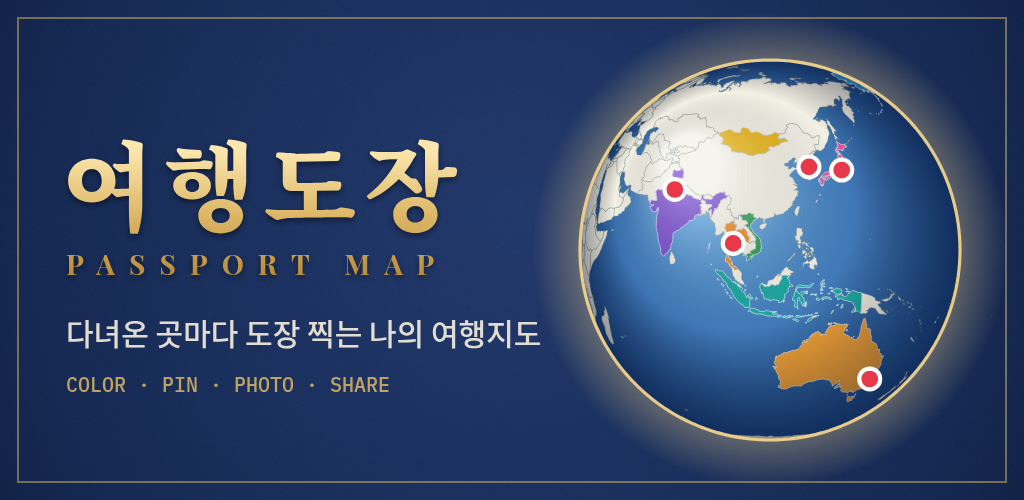
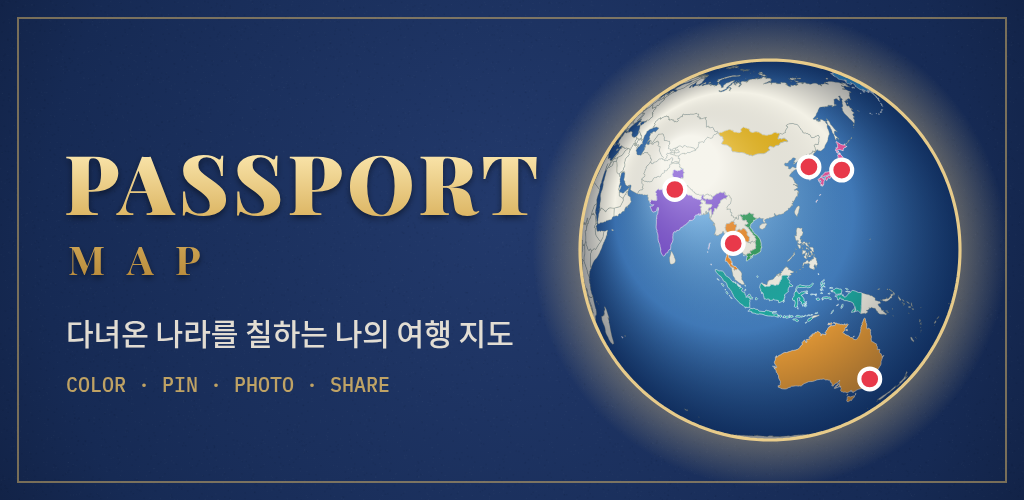
앱 이름을 다시 Passport Map 으로 (로그인 필수는 유지)
Claude-Session: https://claude.ai/code/session_011tcMSH1CXV5mGu8py8oVy6

Changed region(s): [[0.0625, 0.27, 0.5312, 0.57], [0.1562, 0.63, 0.5312, 0.72], [0.3438, 0.51, 0.4375, 0.57]]

diff --git a/public/mgh/i18n/passport-map.js b/public/mgh/i18n/passport-map.js
@@ -1,4 +1,4 @@
-/* 여행도장(Passport Map) — 영어 사전 (나라·도시 이름은 게임이 직접 영어로 표시) */
+/* Passport Map — 영어 사전 (나라·도시 이름은 게임이 직접 영어로 표시) */
 (function () {
   var COLORS = { "블루": "Blue", "하늘": "Sky", "민트": "Mint", "초록": "Green", "노랑": "Yellow", "주황": "Orange", "빨강": "Red", "분홍": "Pink", "보라": "Purple", "갈색": "Brown", "다른": "Custom" };
   MGH.dict({
@@ -8,7 +8,7 @@
       "나라·도시 검색 (예: 파리, Japan)": "Search countries & cities (e.g. Paris, 일본)",
       "나라나 도시 검색": "Search countries or cities",
       "지도를 눌러 원하는 곳에 핀을 찍어요": "Click the map to drop a pin anywhere",
-      "핀 찍기": "Drop pin", "테마": "Theme", "지도 테마": "Map theme", "유명 도시 이름 표시": "Show famous city names", "여행도장": "Passport Map", "나의 여행도장": "My Passport Map", "친구의 여행도장을 보고 있어요": "You're viewing a friend's Passport Map", "다녀온 나라와 도시에 도장을 찍고,": "Stamp the countries and cities you've visited,", "사진과 방문 날짜를 남겨 보세요.": "and keep photos and visit dates.", "로그인 확인 중…": "Checking sign-in…", "카카오톡으로 시작하기": "Continue with Kakao", "이메일로 시작하기": "Continue with email", "로그인하면 휴대폰·PC 어디서든 같은 지도를 볼 수 있어요.": "Sign in to see the same map on your phone and computer.", "로그인 필요": "Sign-in required", "달력에서 시작일과 마지막 날을 고르세요 (마지막 날은 비워도 돼요)": "Pick the first and last day (last day is optional)", "시작일도 골라 주세요": "Pick the first day too", "마지막 날이 시작일보다 빨라요. 날짜를 다시 골라 주세요": "The last day is before the first day. Please pick again", "예: 2025.03.01 ~ 2025.03.05 (마지막 날은 비워도 돼요)": "e.g. 2025.03.01 ~ 2025.03.05 (last day is optional)", "시작일을 2025.03.01처럼 입력해 주세요": "Enter the first day like 2025.03.01", "마지막 날을 2025.03.05처럼 입력해 주세요": "Enter the last day like 2025.03.05", "시작일을 먼저 입력해 주세요": "Enter the first day first", "마지막 날이 시작일보다 빨라요": "The last day is before the first day", "방문 기간": "Visit dates", "방문 시작일": "First day", "방문 마지막 날": "Last day", "날짜를 넣으면 여행 기간이 계산돼요": "Add dates to count your travel days", "핀만 찍기": "Pin only", "지도에 다녀온 도시로 표시만 해요": "Just mark it as visited", "핀 + 정보 입력": "Pin + details", "사진, 방문 기간, 메모를 함께 남겨요": "Add a photo, dates and a note", "여행": "Trip", "일": " days", "방문 국가": "Countries", "방문 도시": "Cities", "여행 기간 총합": "Total travel days", "세계 나라 중": "of the world", "개국": "", "곳": "", "계정에서 불러오는 중…": "Loading from your account…", "불러오기 실패 · 다시 시도 중": "Couldn't load · retrying", "다른 기기에서 고친 내용을 불러왔어요": "Updated with changes from another device", "내 지도 링크": "My map link", "내 지도 링크 · 공개 중": "My map link · Public", "로그인하면 내 지도를 그대로 보여주는 전용 링크를 만들 수 있어요.": "Log in to create a link that shows your map exactly as it is.", "링크를 받은 사람은 내 지도와 사진, 메모를 볼 수 있어요. 고칠 수는 없어요.": "Anyone with the link can see your map, photos and notes. They can't edit it.", "내 지도 링크 만들기": "Create my map link", "링크를 만드는 중…": "Creating link…", "링크를 최신 지도로 바꾸는 중…": "Updating the link…", "지도를 고치면 링크에도 자동으로 반영돼요.": "Changes to your map update the link automatically.", "공개 중지": "Stop sharing", "한 번 더 누르면 공개 중지": "Press again to stop sharing", "내 지도 링크를 만들었어요.": "Your map link is ready.", "내 지도 링크를 복사했어요.": "Map link copied.", "게임 링크를 복사했어요. 내 지도를 보여주려면 위에서 내 지도 링크를 만드세요.": "Game link copied. To show your map, create your map link above.", "링크를 만들지 못했어요. 잠시 후 다시 시도해 주세요.": "Couldn't create the link. Please try again shortly.", "공개를 중지했어요. 이전 링크는 더 이상 열리지 않아요.": "Sharing stopped. The old link no longer opens.", "공개를 중지하지 못했어요.": "Couldn't stop sharing.", "예시 지도는 링크로 만들 수 없어요. 내 지도를 먼저 만들어 주세요.": "The sample map can't be shared. Start your own map first.", "친구의 Passport Map을 보고 있어요": "You're viewing a friend's Passport Map", "나도 내 지도 만들기": "Make my own map", "공개가 중지됐거나 없는 지도예요": "This map isn't shared anymore", "인스타그램·카카오톡에는 이미지를 저장한 뒤 앱에서 올려 주세요. 내 지도 링크를 만들면 링크 복사·X·페이스북·앱 공유가 모두 내 지도 주소로 공유돼요.": "For Instagram or KakaoTalk, save the image and post it from the app. Once you create your map link, Copy link, X, Facebook and app sharing all use it.", "눌러서 다녀온 도시로 추가": "Click to add as visited", "다녀온 도시로 추가": "Add as visited city", "추가하면 핀이 찍히고, 사진과 메모를 남길 수 있어요.": "A pin is dropped and you can add a photo and note.", "아직 다녀오지 않은 도시예요.": "Not visited yet.", "목록": "List", "공유": "Share",
+      "핀 찍기": "Drop pin", "테마": "Theme", "지도 테마": "Map theme", "유명 도시 이름 표시": "Show famous city names", "친구의 Passport Map을 보고 있어요": "You're viewing a friend's Passport Map", "다녀온 나라와 도시를 색칠하고,": "Color the countries and cities you've visited,", "사진과 방문 날짜를 남겨 보세요.": "and keep photos and visit dates.", "로그인 확인 중…": "Checking sign-in…", "카카오톡으로 시작하기": "Continue with Kakao", "이메일로 시작하기": "Continue with email", "로그인하면 휴대폰·PC 어디서든 같은 지도를 볼 수 있어요.": "Sign in to see the same map on your phone and computer.", "로그인 필요": "Sign-in required", "달력에서 시작일과 마지막 날을 고르세요 (마지막 날은 비워도 돼요)": "Pick the first and last day (last day is optional)", "시작일도 골라 주세요": "Pick the first day too", "마지막 날이 시작일보다 빨라요. 날짜를 다시 골라 주세요": "The last day is before the first day. Please pick again", "예: 2025.03.01 ~ 2025.03.05 (마지막 날은 비워도 돼요)": "e.g. 2025.03.01 ~ 2025.03.05 (last day is optional)", "시작일을 2025.03.01처럼 입력해 주세요": "Enter the first day like 2025.03.01", "마지막 날을 2025.03.05처럼 입력해 주세요": "Enter the last day like 2025.03.05", "시작일을 먼저 입력해 주세요": "Enter the first day first", "마지막 날이 시작일보다 빨라요": "The last day is before the first day", "방문 기간": "Visit dates", "방문 시작일": "First day", "방문 마지막 날": "Last day", "날짜를 넣으면 여행 기간이 계산돼요": "Add dates to count your travel days", "핀만 찍기": "Pin only", "지도에 다녀온 도시로 표시만 해요": "Just mark it as visited", "핀 + 정보 입력": "Pin + details", "사진, 방문 기간, 메모를 함께 남겨요": "Add a photo, dates and a note", "여행": "Trip", "일": " days", "방문 국가": "Countries", "방문 도시": "Cities", "여행 기간 총합": "Total travel days", "세계 나라 중": "of the world", "개국": "", "곳": "", "계정에서 불러오는 중…": "Loading from your account…", "불러오기 실패 · 다시 시도 중": "Couldn't load · retrying", "다른 기기에서 고친 내용을 불러왔어요": "Updated with changes from another device", "내 지도 링크": "My map link", "내 지도 링크 · 공개 중": "My map link · Public", "로그인하면 내 지도를 그대로 보여주는 전용 링크를 만들 수 있어요.": "Log in to create a link that shows your map exactly as it is.", "링크를 받은 사람은 내 지도와 사진, 메모를 볼 수 있어요. 고칠 수는 없어요.": "Anyone with the link can see your map, photos and notes. They can't edit it.", "내 지도 링크 만들기": "Create my map link", "링크를 만드는 중…": "Creating link…", "링크를 최신 지도로 바꾸는 중…": "Updating the link…", "지도를 고치면 링크에도 자동으로 반영돼요.": "Changes to your map update the link automatically.", "공개 중지": "Stop sharing", "한 번 더 누르면 공개 중지": "Press again to stop sharing", "내 지도 링크를 만들었어요.": "Your map link is ready.", "내 지도 링크를 복사했어요.": "Map link copied.", "게임 링크를 복사했어요. 내 지도를 보여주려면 위에서 내 지도 링크를 만드세요.": "Game link copied. To show your map, create your map link above.", "링크를 만들지 못했어요. 잠시 후 다시 시도해 주세요.": "Couldn't create the link. Please try again shortly.", "공개를 중지했어요. 이전 링크는 더 이상 열리지 않아요.": "Sharing stopped. The old link no longer opens.", "공개를 중지하지 못했어요.": "Couldn't stop sharing.", "예시 지도는 링크로 만들 수 없어요. 내 지도를 먼저 만들어 주세요.": "The sample map can't be shared. Start your own map first.", "친구의 Passport Map을 보고 있어요": "You're viewing a friend's Passport Map", "나도 내 지도 만들기": "Make my own map", "공개가 중지됐거나 없는 지도예요": "This map isn't shared anymore", "인스타그램·카카오톡에는 이미지를 저장한 뒤 앱에서 올려 주세요. 내 지도 링크를 만들면 링크 복사·X·페이스북·앱 공유가 모두 내 지도 주소로 공유돼요.": "For Instagram or KakaoTalk, save the image and post it from the app. Once you create your map link, Copy link, X, Facebook and app sharing all use it.", "눌러서 다녀온 도시로 추가": "Click to add as visited", "다녀온 도시로 추가": "Add as visited city", "추가하면 핀이 찍히고, 사진과 메모를 남길 수 있어요.": "A pin is dropped and you can add a photo and note.", "아직 다녀오지 않은 도시예요.": "Not visited yet.", "목록": "List", "공유": "Share",
       "불러오는 중": "Loading", "불러오는 중…": "Loading…", "확인 중": "Checking",
       "저장됨": "Saved", "저장 대기": "Unsaved", "저장 중…": "Saving…", "저장 안 됨": "Not saved",
       "이 브라우저에 저장됨": "Saved in this browser", "계정에 저장됨": "Saved to account",
@@ -61,7 +61,7 @@
       "이미지를 복사했어요. SNS 글쓰기 창에 붙여넣으세요.": "Image copied. Paste it into your post.",
       "이 브라우저에서는 이미지 복사가 막혀 있어요. ‘이미지 저장’을 이용해 주세요.": "This browser blocks copying images. Try “Save image”.",
       "링크를 복사했어요.": "Link copied.",
-      "인스타그램·카카오톡에는 이미지를 저장한 뒤 앱에서 올려 주세요. 링크를 받은 친구는 바로 자기 여행도장을 만들 수 있어요.": "For Instagram or KakaoTalk, save the image and post it from the app. Friends who open the link can start their own Passport Map.",
+      "인스타그램·카카오톡에는 이미지를 저장한 뒤 앱에서 올려 주세요. 링크를 받은 친구는 바로 자기 Passport Map을 만들 수 있어요.": "For Instagram or KakaoTalk, save the image and post it from the app. Friends who open the link can start their own Passport Map.",
       "개 나라를 다녀왔어요": "countries visited", "개 나라": "countries", "곳의 도시": "cities", "세계 나라 중": "of the world",
     },
     patterns: [

diff --git a/public/games/passport-map/index.html b/public/games/passport-map/index.html
@@ -5,8 +5,8 @@
 <link rel="canonical" href="/play/passport-map">
 <script src="/mgh/bridge.js"></script><script src="/mgh/i18n/passport-map.js"></script>
 <meta name="viewport" content="width=device-width, initial-scale=1.0, viewport-fit=cover">
-<title>여행도장</title>
-<meta name="description" content="여행도장 — 다녀온 나라와 도시를 세계지도에 색칠하고 사진을 남기는 여행 지도">
+<title>Passport Map</title>
+<meta name="description" content="Passport Map — 다녀온 나라와 도시를 세계지도에 색칠하고 사진을 남기는 여행 지도">
 <link rel="preconnect" href="https://fonts.googleapis.com">
 <link rel="preconnect" href="https://fonts.gstatic.com" crossorigin>
 <link rel="stylesheet" href="https://fonts.googleapis.com/css2?family=Hahmlet:wght@600;700&family=IBM+Plex+Mono:wght@500&family=IBM+Plex+Sans+KR:wght@400;500;600&display=swap">
@@ -287,7 +287,7 @@ input,button,select,textarea{box-sizing:border-box}
 
 <div class="app">
   <header class="bar">
-    <div class="brand"><h1>여행도장</h1>
+    <div class="brand"><h1>Passport Map</h1>
       <div class="stats" id="stats"></div></div>
     <div class="tools">
       <div class="search">
@@ -331,7 +331,7 @@ input,button,select,textarea{box-sizing:border-box}
       <div class="row"><button class="sbtn" id="clearSample">예시 지우고 내 지도 시작</button></div>
     </div>
     </div>
-    <div class="viewbar" id="viewBar" hidden><span id="viewTxt">친구의 여행도장을 보고 있어요</span><a href="/play/passport-map" target="_top">나도 내 지도 만들기</a></div>
+    <div class="viewbar" id="viewBar" hidden><span id="viewTxt">친구의 Passport Map을 보고 있어요</span><a href="/play/passport-map" target="_top">나도 내 지도 만들기</a></div>
     <div class="deco deco-passport">PASSPORT MAP</div>
     <svg class="deco deco-compass" viewBox="-40 -44 80 84" aria-hidden="true"><circle r="26" fill="none" stroke="currentColor" stroke-width="1"/><g fill="currentColor"><path d="M0-34 5 0-5 0z"/><path d="M0 34 5 0-5 0z" opacity=".55"/><path d="M34 0 0 5 0-5z" opacity=".55"/><path d="M-34 0 0 5 0-5z" opacity=".55"/></g><text y="-37" text-anchor="middle" font-size="10" font-family="Georgia,serif" fill="currentColor">N</text></svg>
     <div class="choice" id="choice" hidden></div>
@@ -346,7 +346,7 @@ input,button,select,textarea{box-sizing:border-box}
     <div class="pv"><canvas id="shareCv" width="1080" height="1080"></canvas></div>
     <div class="side">
       <div style="display:flex;align-items:center"><h2 id="shTitle">지도 공유하기</h2><button class="x" id="shClose" aria-label="닫기">×</button></div>
-      <div><div class="lbl">지도 제목</div><input class="field" id="shName" maxlength="24" placeholder="나의 여행도장"></div>
+      <div><div class="lbl">지도 제목</div><input class="field" id="shName" maxlength="24" placeholder="My Passport Map"></div>
       <div><div class="lbl">이미지 비율</div><div class="seg" id="shFmt">
         <button data-f="sq" aria-pressed="true">정사각<small>1080×1080</small></button><button data-f="pt" aria-pressed="false">세로<small>1080×1350</small></button><button data-f="ls" aria-pressed="false">가로<small>1200×630</small></button></div></div>
       <label class="chk"><input type="checkbox" id="shPhotos" checked> 올린 사진도 함께 넣기</label>
@@ -368,8 +368,8 @@ input,button,select,textarea{box-sizing:border-box}
 <div class="gate" id="gate" hidden role="dialog" aria-modal="true" aria-labelledby="gateTitle">
   <div class="gate-card">
     <svg class="gate-stamp" viewBox="0 0 100 100" aria-hidden="true"><circle cx="50" cy="50" r="44" fill="none" stroke="currentColor" stroke-width="5"/><circle cx="50" cy="50" r="35" fill="none" stroke="currentColor" stroke-width="2"/><path d="M50 26c-8 0-14 6-14 14 0 10 14 26 14 26s14-16 14-26c0-8-6-14-14-14zm0 19a5 5 0 1 1 0-10 5 5 0 0 1 0 10z" fill="currentColor"/><text x="50" y="80" text-anchor="middle" font-size="9" font-weight="700" fill="currentColor" letter-spacing="2">TRAVEL</text></svg>
-    <h2 id="gateTitle">여행도장</h2>
-    <p>다녀온 나라와 도시에 도장을 찍고,<br>사진과 방문 날짜를 남겨 보세요.</p>
+    <h2 id="gateTitle">Passport Map</h2>
+    <p>다녀온 나라와 도시를 색칠하고,<br>사진과 방문 날짜를 남겨 보세요.</p>
     <div id="gateBody"><div class="gate-wait">로그인 확인 중…</div></div>
   </div>
 </div>
@@ -1138,7 +1138,7 @@ const P2={};const p2=id=>P2[id]||(P2[id]=new Path2D(C[id].d));
 const loadImg=src=>new Promise(r=>{const i=new Image();if(/^https?:/.test(src))i.crossOrigin='anonymous';i.onload=()=>r(i);i.onerror=()=>r(null);i.src=src});
 function rrect(x,X,Y,w,h,r){x.beginPath();if(x.roundRect)x.roundRect(X,Y,w,h,r);else x.rect(X,Y,w,h)}
 let shSeq=0,shBlob=null,DL=null;
-function shTitleText(){return (S.share&&S.share.name)||(EN?'My Passport Map':'나의 여행도장')}
+function shTitleText(){return (S.share&&S.share.name)||'My Passport Map'}
 function stripePattern(x){const c=document.createElement('canvas');c.width=c.height=48;const g=c.getContext('2d');g.fillStyle='#FFFFFF';g.fillRect(0,0,48,48);
   g.lineWidth=11;[['#E0393E',0],['#2D5BD0',24]].forEach(([col,o])=>{g.strokeStyle=col;for(let k=-2;k<3;k++){g.beginPath();g.moveTo(o+k*48-10,58);g.lineTo(o+k*48+58,-10);g.stroke()}});return x.createPattern(c,'repeat')}
 async function renderCard(cv,F,P,seq){
@@ -1157,7 +1157,7 @@ async function renderCard(cv,F,P,seq){
   const pad=F==='ls'?48:60;
   // header
   x.fillStyle=MUTED;x.font=`500 ${F==='ls'?17:20}px ${MONO}`;x.textBaseline='alphabetic';
-  x.fillText((EN?'PASSPORT MAP':'여행도장 · PASSPORT MAP')+' · '+new Date().getFullYear(),pad,pad+(F==='ls'?14:18));
+  x.fillText('PASSPORT MAP'+' · '+new Date().getFullYear(),pad,pad+(F==='ls'?14:18));
   x.fillStyle=INK;x.font=`700 ${F==='ls'?42:56}px ${DISP}`;x.fillText(shTitleText(),pad,pad+(F==='ls'?66:86));
   // map box
   let mb;
@@ -1181,13 +1181,13 @@ async function renderCard(cv,F,P,seq){
         x.drawImage(it.im,X+(cw2-it.im.width*sc)/2,Y+(ch-it.im.height*sc)/2,it.im.width*sc,it.im.height*sc);
         const gr=x.createLinearGradient(0,Y+ch-70,0,Y+ch);gr.addColorStop(0,'rgba(0,0,0,0)');gr.addColorStop(1,'rgba(0,0,0,.6)');x.fillStyle=gr;x.fillRect(X,Y+ch-70,cw2,70);
         x.fillStyle=it.color;x.beginPath();x.arc(X+20,Y+ch-22,6,0,7);x.fill();x.fillStyle='#FFFFFF';x.font=`600 20px ${BODY}`;x.fillText(it.name,X+34,Y+ch-15,cw2-46);x.restore()})}}
-  x.fillStyle=MUTED;x.font=`500 15px ${MONO}`;x.textAlign='right';x.fillText(EN?'Passport Map':'여행도장',W-pad,H-pad+(F==='ls'?24:14));x.textAlign='left';
+  x.fillStyle=MUTED;x.font=`500 15px ${MONO}`;x.textAlign='right';x.fillText('Passport Map',W-pad,H-pad+(F==='ls'?24:14));x.textAlign='left';
   return true}
 async function drawShare(){const seq=++shSeq;const cv=$('#shareCv');if(!await renderCard(cv,SH.f,SH.photos,seq))return;
   shBlob=null;cv.toBlob(b=>{if(seq===shSeq)shBlob=b},'image/png');updateShareLinks()}
 function shareURL(){return (PUB&&PUB.slug)?location.origin+'/m/'+PUB.slug:ARTIFACT_URL}
 function updateShareLinks(){const n=Object.keys(S.countries).length,m=S.cities.length;const u=shareURL();
-  const txt=EN?`${shTitleText()} — I've been to ${n} countries and ${m} cities #PassportMap`:`${shTitleText()} — 나라 ${n}곳, 도시 ${m}곳에 도장을 찍었어요 #여행도장`;
+  const txt=EN?`${shTitleText()} — I've been to ${n} countries and ${m} cities #PassportMap`:`${shTitleText()} — 나라 ${n}곳, 도시 ${m}곳을 다녀왔어요 #PassportMap`;
   $('#shX').href='https://twitter.com/intent/tweet?text='+encodeURIComponent(txt)+'&url='+encodeURIComponent(u);
   $('#shFb').href='https://www.facebook.com/sharer/sharer.php?u='+encodeURIComponent(u)}
 const shMsg=t=>{$('#shMsg').textContent=t};
@@ -1200,9 +1200,9 @@ $('#shFmt').onclick=e=>{const b=e.target.closest('button');if(!b)return;SH.f=b.d
 $('#shPhotos').onchange=e=>{SH.photos=e.target.checked;drawShare()};
 const getBlob=()=>shBlob?Promise.resolve(shBlob):new Promise(r=>$('#shareCv').toBlob(r,'image/png'));
 if(EMB){$('#shNote').textContent='인스타그램·카카오톡에는 이미지를 저장한 뒤 앱에서 올려 주세요. 내 지도 링크를 만들면 링크 복사·X·페이스북·앱 공유가 모두 내 지도 주소로 공유돼요.'}
-const shFile=b=>new File([b],(EN?'passport-map':'여행도장')+'.png',{type:'image/png'});
+const shFile=b=>new File([b],'passport-map.png',{type:'image/png'});
 try{if(navigator.canShare&&navigator.canShare({files:[new File([new Blob(['x'],{type:'image/png'})],'t.png',{type:'image/png'})]}))$('#shNative').hidden=false}catch(e){}
-$('#shNative').onclick=async()=>{try{const b=await getBlob();await navigator.share({files:[shFile(b)],title:shTitleText(),text:EN?'My Passport Map':'나의 여행도장',url:EMB?shareURL():undefined})}catch(e){if(e&&e.name!=='AbortError')shMsg('공유하지 못했어요. ‘이미지 저장’을 이용해 주세요.')}};
+$('#shNative').onclick=async()=>{try{const b=await getBlob();await navigator.share({files:[shFile(b)],title:shTitleText(),text:'My Passport Map',url:EMB?shareURL():undefined})}catch(e){if(e&&e.name!=='AbortError')shMsg('공유하지 못했어요. ‘이미지 저장’을 이용해 주세요.')}};
 $('#shSave').onclick=async()=>{if(!DL){try{const b=await getBlob();const u=URL.createObjectURL(b);const a=document.createElement('a');a.href=u;a.download=shFile(b).name;document.body.appendChild(a);a.click();a.remove();setTimeout(()=>URL.revokeObjectURL(u),4000);shMsg('이미지를 저장했어요.')}catch(e){shMsg('저장하지 못했어요. ‘이미지 복사’를 이용해 주세요.')}return}
   try{const b=await getBlob();await DL.save({filename:`passport-map-${({sq:'정사각',pt:'세로',ls:'가로'})[SH.f]}.png`,data:b});shMsg('이미지를 저장했어요.')}
   catch(err){const c=err&&err.code;shMsg(c==='declined'?'저장을 취소했어요.':c==='rate_limited'?'저장 창이 이미 열려 있어요.':'저장하지 못했어요. ‘이미지 복사’를 이용해 주세요.')}};
@@ -1254,7 +1254,7 @@ async function bootPortal(){
 async function bootView(){mode='readonly';$('#pinBtn').hidden=true;$('#shareBtn').hidden=true;$('#sample').hidden=true;$('#viewBar').hidden=false;
   setSave('idle','불러오는 중');
   try{const r=await fetch('/api/share/'+encodeURIComponent(VIEW),{cache:'no-store'});if(!r.ok)throw 0;const j=await r.json();S=j.data;S.cities=S.cities||[];
-    const nm=S.share&&S.share.name;$('#viewTxt').textContent=nm?nm:(EN?'A friend\'s Passport Map':'친구의 여행도장을 보고 있어요');setSave('idle','보기 전용')}
+    const nm=S.share&&S.share.name;$('#viewTxt').textContent=nm?nm:(EN?'A friend\'s Passport Map':'친구의 Passport Map을 보고 있어요');setSave('idle','보기 전용')}
   catch(e){S={v:1,countries:{},cities:[]};$('#viewTxt').textContent=EN?'This map link is no longer available':'공개가 중지됐거나 없는 지도예요';setSave('idle','')}
   renderMap();resetView()}
 async function boot(){

diff --git a/src/app/privacy/page.tsx b/src/app/privacy/page.tsx
@@ -4,7 +4,7 @@ import { serverLang } from "@/lib/serverLang";
 
 export const metadata: Metadata = {
   title: "개인정보처리방침 · Privacy Policy",
-  description: "미니게임천국과 여행도장(Passport Map) 앱의 개인정보처리방침",
+  description: "미니게임천국과 Passport Map 앱의 개인정보처리방침",
   alternates: { canonical: "/privacy" },
 };
 
@@ -21,8 +21,8 @@ export default async function PrivacyPage() {
       <h1 className="page-title">{en ? "Privacy Policy" : "개인정보처리방침"}</h1>
       <p className="page-sub">
         {en
-          ? `Applies to the Mini Game Heaven website and the 여행도장 (Passport Map) Android app. Last updated ${UPDATED}.`
-          : `미니게임천국 웹사이트와 여행도장(Passport Map) 안드로이드 앱에 적용됩니다. 최종 수정일 ${UPDATED}.`}
+          ? `Applies to the Mini Game Heaven website and the Passport Map Android app. Last updated ${UPDATED}.`
+          : `미니게임천국 웹사이트와 Passport Map 안드로이드 앱에 적용됩니다. 최종 수정일 ${UPDATED}.`}
       </p>
       {en ? (
         <>
@@ -59,11 +59,11 @@ export default async function PrivacyPage() {
           <h2>1. 수집하는 정보</h2>
           <ul>
             <li><b>계정</b>: 이메일 가입 시 이메일 주소, 카카오 로그인 시 카카오 계정 식별자, 직접 정한 닉네임</li>
-            <li><b>여행도장 데이터</b>: 표시한 나라·도시, 핀 색, 방문 기간, 메모, 지도 테마, 올린 사진</li>
+            <li><b>Passport Map 데이터</b>: 표시한 나라·도시, 핀 색, 방문 기간, 메모, 지도 테마, 올린 사진</li>
             <li><b>게임 기록</b>: 점수·랭킹, 온라인 방 참여 기록</li>
             <li><b>이용 기록</b>: 구글 애널리틱스가 수집하는 방문 페이지·기기·브라우저 정보, 웹사이트의 구글 애드센스 쿠키</li>
           </ul>
-          <p>여행도장은 지도를 계정에 보관하기 위해 카카오 또는 이메일 로그인 후 이용할 수 있습니다.</p>
+          <p>Passport Map은 지도를 계정에 보관하기 위해 카카오 또는 이메일 로그인 후 이용할 수 있습니다.</p>
           <h2>2. 이용 목적</h2>
           <ul>
             <li>지도·사진·기록을 계정에 보관하고 로그인한 모든 기기에서 보여 주기 위해</li>
@@ -76,7 +76,7 @@ export default async function PrivacyPage() {
           <h2>4. 처리 위탁 (보관 장소)</h2>
           <p>Supabase(데이터베이스·로그인·파일 저장)와 Vercel(웹사이트 호스팅)에 보관·처리를 맡기며, 이들은 서비스 운영 목적으로만 데이터를 처리합니다.</p>
           <h2>5. 보유 기간</h2>
-          <p>이용자가 직접 지우거나 회원 탈퇴할 때까지 보관합니다. 탈퇴하면 프로필, 기록, 여행도장 데이터, 사진, 공개 링크가 모두 삭제됩니다.</p>
+          <p>이용자가 직접 지우거나 회원 탈퇴할 때까지 보관합니다. 탈퇴하면 프로필, 기록, Passport Map 데이터, 사진, 공개 링크가 모두 삭제됩니다.</p>
           <h2>6. 계정 삭제(회원 탈퇴)</h2>
           <p><Link href="/account/delete">계정 삭제</Link> 페이지에서 직접 삭제할 수 있습니다(로그인 필요). 또는 {contact}로 요청해 주세요.</p>
           <h2>7. 아동</h2>

diff --git a/src/lib/seo.ts b/src/lib/seo.ts
@@ -295,11 +295,11 @@ export const GAME_SEO: SeoMap = {
   },
   "passport-map": {
     ko: {
-      title: "여행도장 - 다녀온 나라 색칠하는 여행지도 · 여행 기록 앱",
-      h1: "여행도장 — 다녀온 나라와 도시에 도장 찍는 여행 기록",
+      title: "Passport Map - 다녀온 나라 색칠하기 · 세계 여행 지도 만들기",
+      h1: "Passport Map — 다녀온 나라와 도시를 색칠하는 여행 지도",
       description: "세계지도에서 다녀온 나라를 원하는 색으로 칠하고, 도시에 핀을 꽂고, 장소마다 여행 사진과 방문 날짜를 남기는 무료 여행 기록. 카카오·이메일 로그인으로 어디서든 이어 보고 인스타·X용 공유 이미지도 만들 수 있어요.",
-      keywords: ["여행도장", "여행 지도", "다녀온 나라", "세계지도 색칠", "여행 기록", "방문 국가", "세계 여행 지도", "여행 사진 지도", "visited countries"],
-      about: ["여행도장은 세계지도 위에 다녀온 나라를 색칠하고, 도시마다 핀을 찍어 나만의 여행 지도를 만드는 서비스입니다. 나라와 도시마다 사진 1장과 한 줄 메모를 남기면 지도에 마우스를 올렸을 때 사진이 떠요.", "다녀온 나라 수·도시 수·세계 몇 %를 다녀왔는지 한눈에 보이고, 정사각·세로·가로 비율의 공유 이미지로 SNS에 올릴 수 있어요. 카카오톡이나 이메일로 로그인하면 어느 기기에서든 같은 지도를 이어서 볼 수 있습니다."],
+      keywords: ["Passport Map", "여행 지도", "다녀온 나라", "세계지도 색칠", "여행 기록", "방문 국가", "세계 여행 지도", "여행 사진 지도", "visited countries"],
+      about: ["Passport Map은 세계지도 위에 다녀온 나라를 색칠하고, 도시마다 핀을 찍어 나만의 여행 지도를 만드는 서비스입니다. 나라와 도시마다 사진 1장과 한 줄 메모를 남기면 지도에 마우스를 올렸을 때 사진이 떠요.", "다녀온 나라 수·도시 수·세계 몇 %를 다녀왔는지 한눈에 보이고, 정사각·세로·가로 비율의 공유 이미지로 SNS에 올릴 수 있어요. 카카오톡이나 이메일로 로그인하면 어느 기기에서든 같은 지도를 이어서 볼 수 있습니다."],
       howTo: ["지도에서 나라를 누르고 팔레트에서 색을 골라 칠합니다.", "추천 도시를 누르거나 [핀 찍기]로 다녀온 곳을 표시합니다.", "사진 1장과 메모를 올리고 [공유]로 이미지를 저장하세요."],
       tags: ["여행", "세계지도", "여행 기록", "무료"],
     },

diff --git a/src/app/m/[slug]/page.tsx b/src/app/m/[slug]/page.tsx
@@ -11,14 +11,14 @@ const load = cache(async (slug: string) => {
 
 export async function generateMetadata({ params }: { params: Promise<{ slug: string }> }): Promise<Metadata> {
   const r = await load((await params).slug);
-  if (!r) return { title: "여행도장" };
+  if (!r) return { title: "Passport Map" };
   const { lang } = await serverLang();
   const s = passportSummary(r.data);
-  const title = s.name ? `${s.name} · ${lang === "en" ? "Passport Map" : "여행도장"}` : lang === "en" ? "My Passport Map" : "나의 여행도장";
+  const title = s.name ? `${s.name} · Passport Map` : lang === "en" ? "My Passport Map" : "나의 Passport Map";
   const description =
     lang === "en"
       ? `${s.countries} countries and ${s.cities} cities visited. Make your own travel map on Passport Map!`
-      : `나라 ${s.countries}곳, 도시 ${s.cities}곳에 여행도장을 찍었어요. 나도 내 여행 지도를 만들어 보세요!`;
+      : `나라 ${s.countries}곳, 도시 ${s.cities}곳을 다녀왔어요. 나도 내 여행 지도를 만들어 보세요!`;
   const images = s.og ? [{ url: s.og, width: 1200, height: 630 }] : undefined;
   return {
     title,
@@ -39,7 +39,7 @@ export default async function SharedPassport({ params }: { params: Promise<{ slu
     <div style={{ height: "calc(100dvh - 52px)", display: "flex" }}>
       <iframe
         src={`/games/passport-map/index.html?view=${cleanShareSlug(r.slug)}&lang=${lang}`}
-        title={s.name ?? (lang === "en" ? "Passport Map" : "여행도장")}
+        title={s.name ?? "Passport Map"}
         allow="clipboard-write; web-share"
         style={{ flex: 1, width: "100%", border: 0, display: "block" }}
       />

diff --git a/src/lib/games.ts b/src/lib/games.ts
@@ -184,13 +184,13 @@ const CATALOG: Game[] = [
   {
     id: "passport-map",
     kind: "app",
-    title: { ko: "여행도장", en: "Passport Map" },
+    title: { ko: "Passport Map", en: "Passport Map" },
     desc: {
-      ko: "다녀온 나라와 도시에 도장을 찍듯 세계지도에 색칠하고, 장소마다 사진과 방문 날짜를 남기는 여행 기록. 카카오·이메일 로그인으로 어디서든 이어 보고 SNS 공유 이미지도 만들어요",
+      ko: "다녀온 나라와 도시를 세계지도에 원하는 색으로 칠하고, 장소마다 사진과 방문 날짜를 남기는 여행 기록. 카카오·이메일 로그인으로 어디서든 이어 보고 SNS 공유 이미지도 만들어요",
       en: "Color the countries and cities you've visited on a world map and pin one photo to each place. Log in to keep it in your account and make a share image for social media",
     },
     genre: "casual",
-    thumb: "/thumbs/passport-map.jpg?v=3",
+    thumb: "/thumbs/passport-map.jpg?v=4",
     src: "/games/passport-map/index.html",
     saves: true,
   },

diff --git a/src/app/passport-map/page.tsx b/src/app/passport-map/page.tsx
@@ -3,11 +3,11 @@ import { GamePlayer } from "@/components/GamePlayer";
 
 // 구글 플레이 앱(TWA)이 여는 시작 화면 — 포털 머리글·설명 없이 Passport Map 만 전체 화면
 export const metadata: Metadata = {
-  title: { absolute: "여행도장" },
+  title: { absolute: "Passport Map" },
   description: "다녀온 나라와 도시를 세계지도에 칠하고 사진을 남기는 여행 지도",
   manifest: "/passport-map.webmanifest",
   robots: { index: false, follow: false },
-  appleWebApp: { capable: true, title: "여행도장", statusBarStyle: "black-translucent" },
+  appleWebApp: { capable: true, title: "Passport Map", statusBarStyle: "black-translucent" },
   icons: { apple: "/icons/pm-192.png" },
 };
 

diff --git a/src/app/account/delete/page.tsx b/src/app/account/delete/page.tsx
@@ -33,7 +33,7 @@ export default function DeleteAccountPage() {
       <p className="page-sub">
         {en
           ? "Deleting your account permanently removes your profile, game records, Passport Map data and photos, and any public map links. This cannot be undone."
-          : "계정을 삭제하면 프로필, 게임 기록, 여행도장 지도와 사진, 공개 지도 링크가 모두 영구히 지워지고 되돌릴 수 없어요."}
+          : "계정을 삭제하면 프로필, 게임 기록, Passport Map 지도와 사진, 공개 지도 링크가 모두 영구히 지워지고 되돌릴 수 없어요."}
       </p>
       <div className="panel">
         {state === "done" ? (

diff --git a/docs/play-store/README.md b/docs/play-store/README.md
@@ -1,4 +1,4 @@
-# 여행도장 (Passport Map) — 구글 플레이 등록 가이드
+# Passport Map — 구글 플레이 등록 가이드
 
 웹사이트(`/passport-map`)를 **TWA(Trusted Web Activity)** 로 감싼 안드로이드 앱입니다.
 앱은 크롬 엔진으로 웹 화면을 전체 화면으로 띄우므로, 웹을 고치면 앱도 바로 바뀝니다 (새 버전 업로드 불필요).
@@ -21,7 +21,7 @@
 1. https://www.pwabuilder.com 에 `https://minigame-on.vercel.app/passport-map` 입력 → Start
 2. **Package For Stores → Android → Google Play → Options**
    - Package ID: 예) `kr.minigame.passportmap` (**한 번 정하면 못 바꿈**)
-   - App name: `여행도장`, Launcher name: `여행도장`
+   - App name: `Passport Map`, Launcher name: `Passport Map`
    - Signing key: **Create new** (이름·비밀번호 입력)
 3. Download → zip 안의 파일
    - `*.aab` — 플레이 콘솔에 올릴 파일
@@ -38,7 +38,7 @@
    - 이걸 빠뜨리면 플레이에서 받은 앱 상단에 주소창이 보입니다
 
 ## 4. 플레이 콘솔 등록 (조직 계정 → 테스터 조건 없음)
-1. **앱 만들기**: 이름 `여행도장 - 다녀온 나라 색칠하는 여행지도`, 앱(게임 아님), 무료
+1. **앱 만들기**: 이름 `Passport Map - 나의 여행 지도`, 앱(게임 아님), 무료
 2. **앱 콘텐츠**
    - 개인정보처리방침: `https://minigame-on.vercel.app/privacy`
    - 광고: 없음 (앱 화면에는 광고를 넣지 않음)
@@ -65,14 +65,14 @@
 
 ## 스토어 등록정보 문구
 **앱 이름 (30자)**
-여행도장 - 다녀온 나라 색칠하는 여행지도
+Passport Map - 나의 여행 지도
 
 **간단한 설명 (80자)**
-다녀온 나라와 도시에 도장 찍듯 색칠하고, 사진·방문 날짜를 남기는 나만의 여행지도
+다녀온 나라를 색칠하고 도시마다 사진·방문 날짜를 남기는 나만의 여행 세계지도
 
 **자세한 설명**
 지금까지 다녀온 나라, 몇 곳인지 세어 본 적 있나요?
-여행도장은 세계지도 위에 다녀온 나라를 원하는 색으로 칠하고, 도시마다 도장(핀)을 찍어 나만의 여행 기록을 만드는 앱이에요.
+Passport Map은 세계지도 위에 다녀온 나라를 원하는 색으로 칠하고, 도시마다 핀을 꽂아 나만의 여행 기록을 만드는 앱이에요.
 
 ■ 나라는 색칠, 도시는 핀
 · 지도를 눌러 다녀온 나라를 10가지 색 중에서 골라 칠해요
@@ -94,8 +94,6 @@
 
 ■ 어디서든 이어서
 카카오톡이나 이메일로 로그인하면 휴대폰·PC 어디서든 같은 지도를 이어서 볼 수 있어요.
-
-**영문 스토어 이름(영어 등록정보를 추가할 때)**: Passport Map - Travel Stamp Map
 
 **카테고리**: 여행 및 지역정보 · **태그**: 여행, 지도, 기록
 
